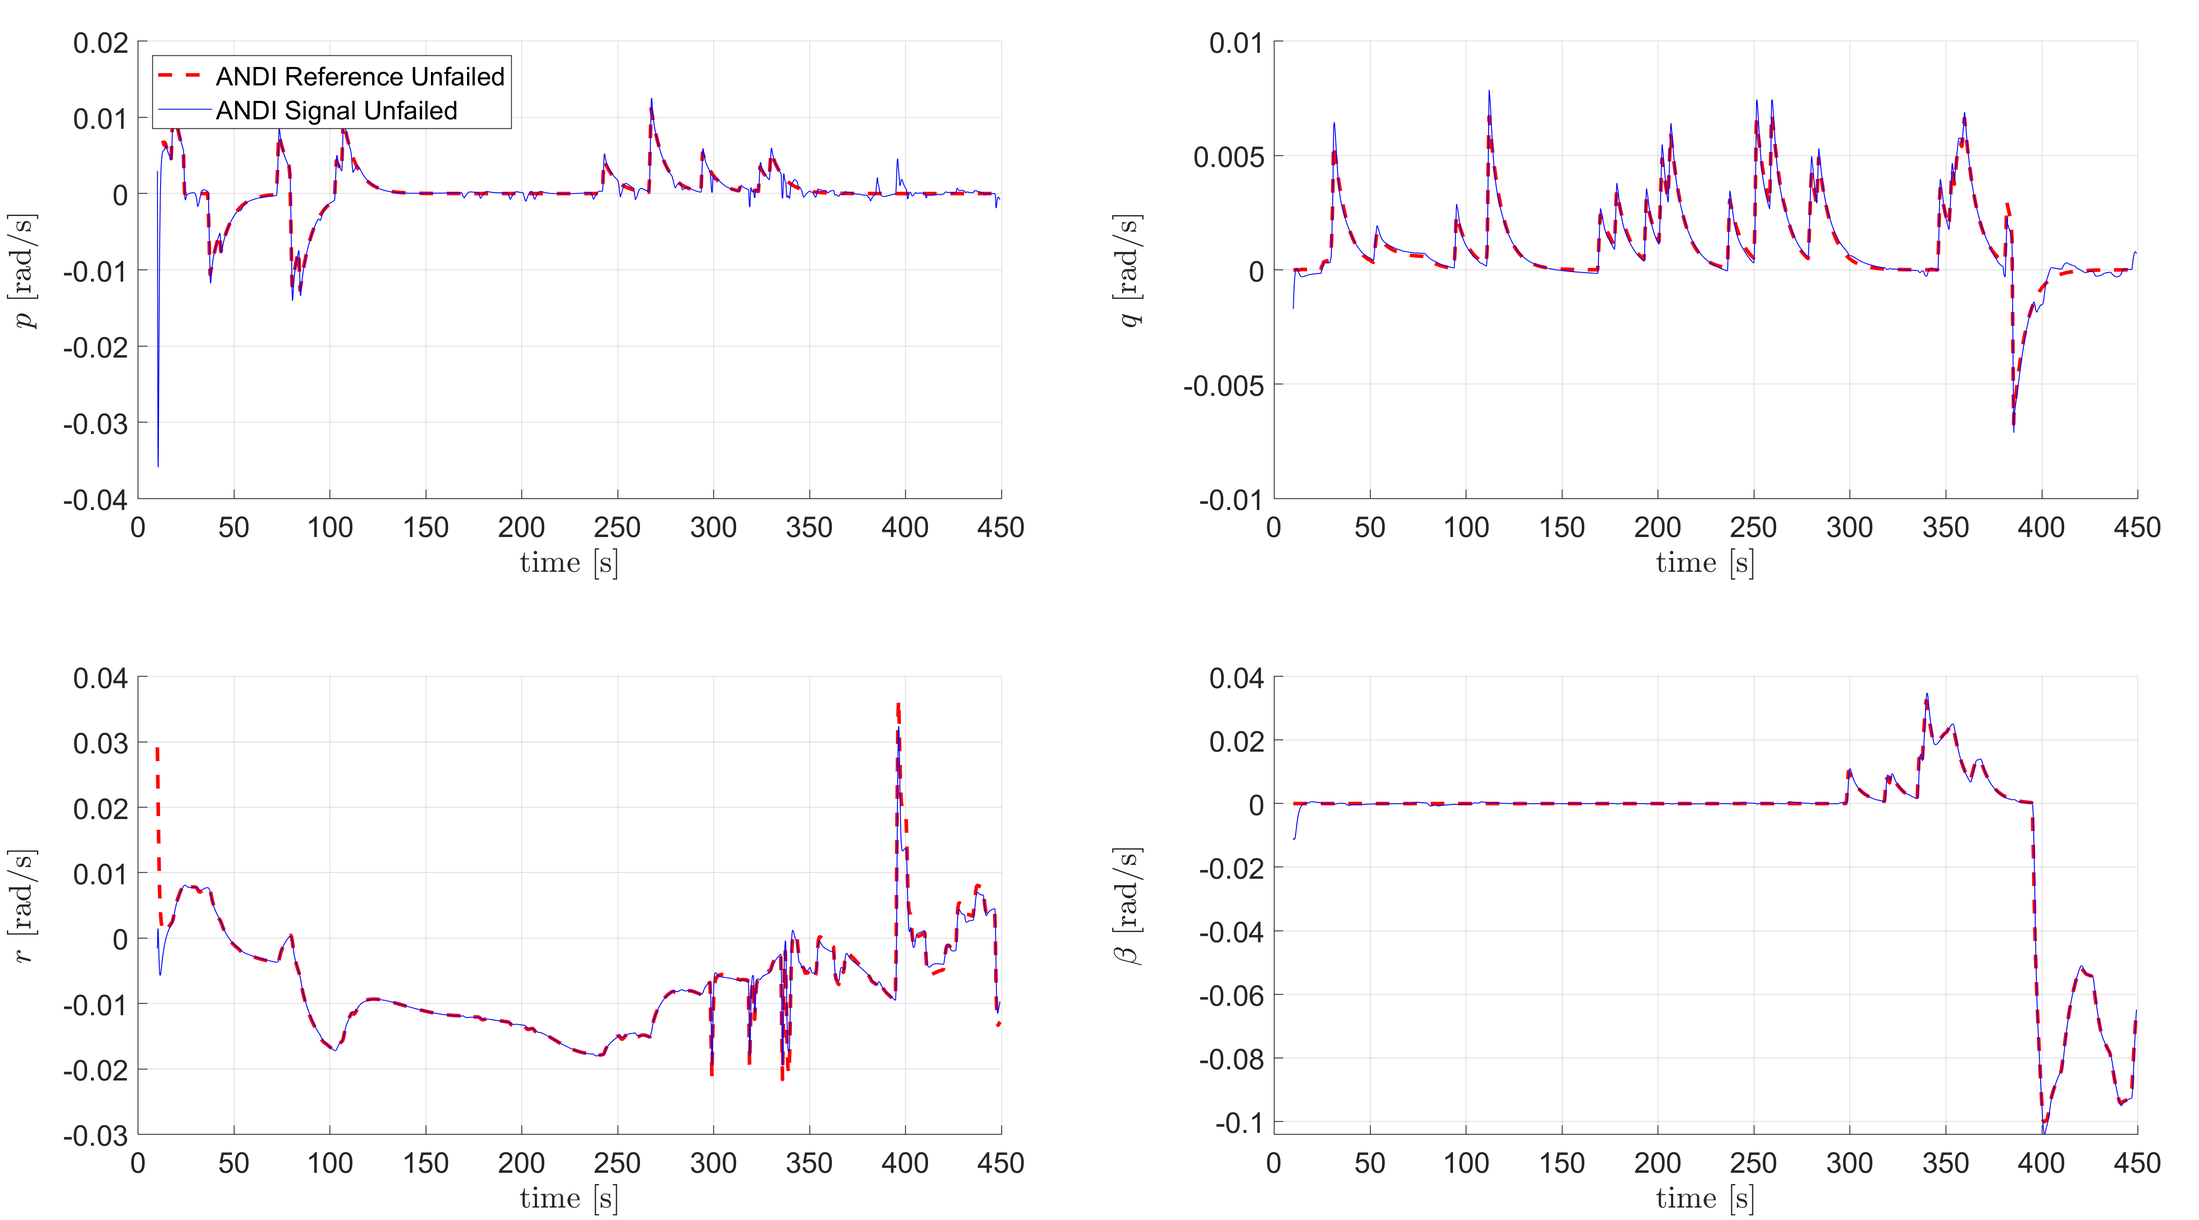
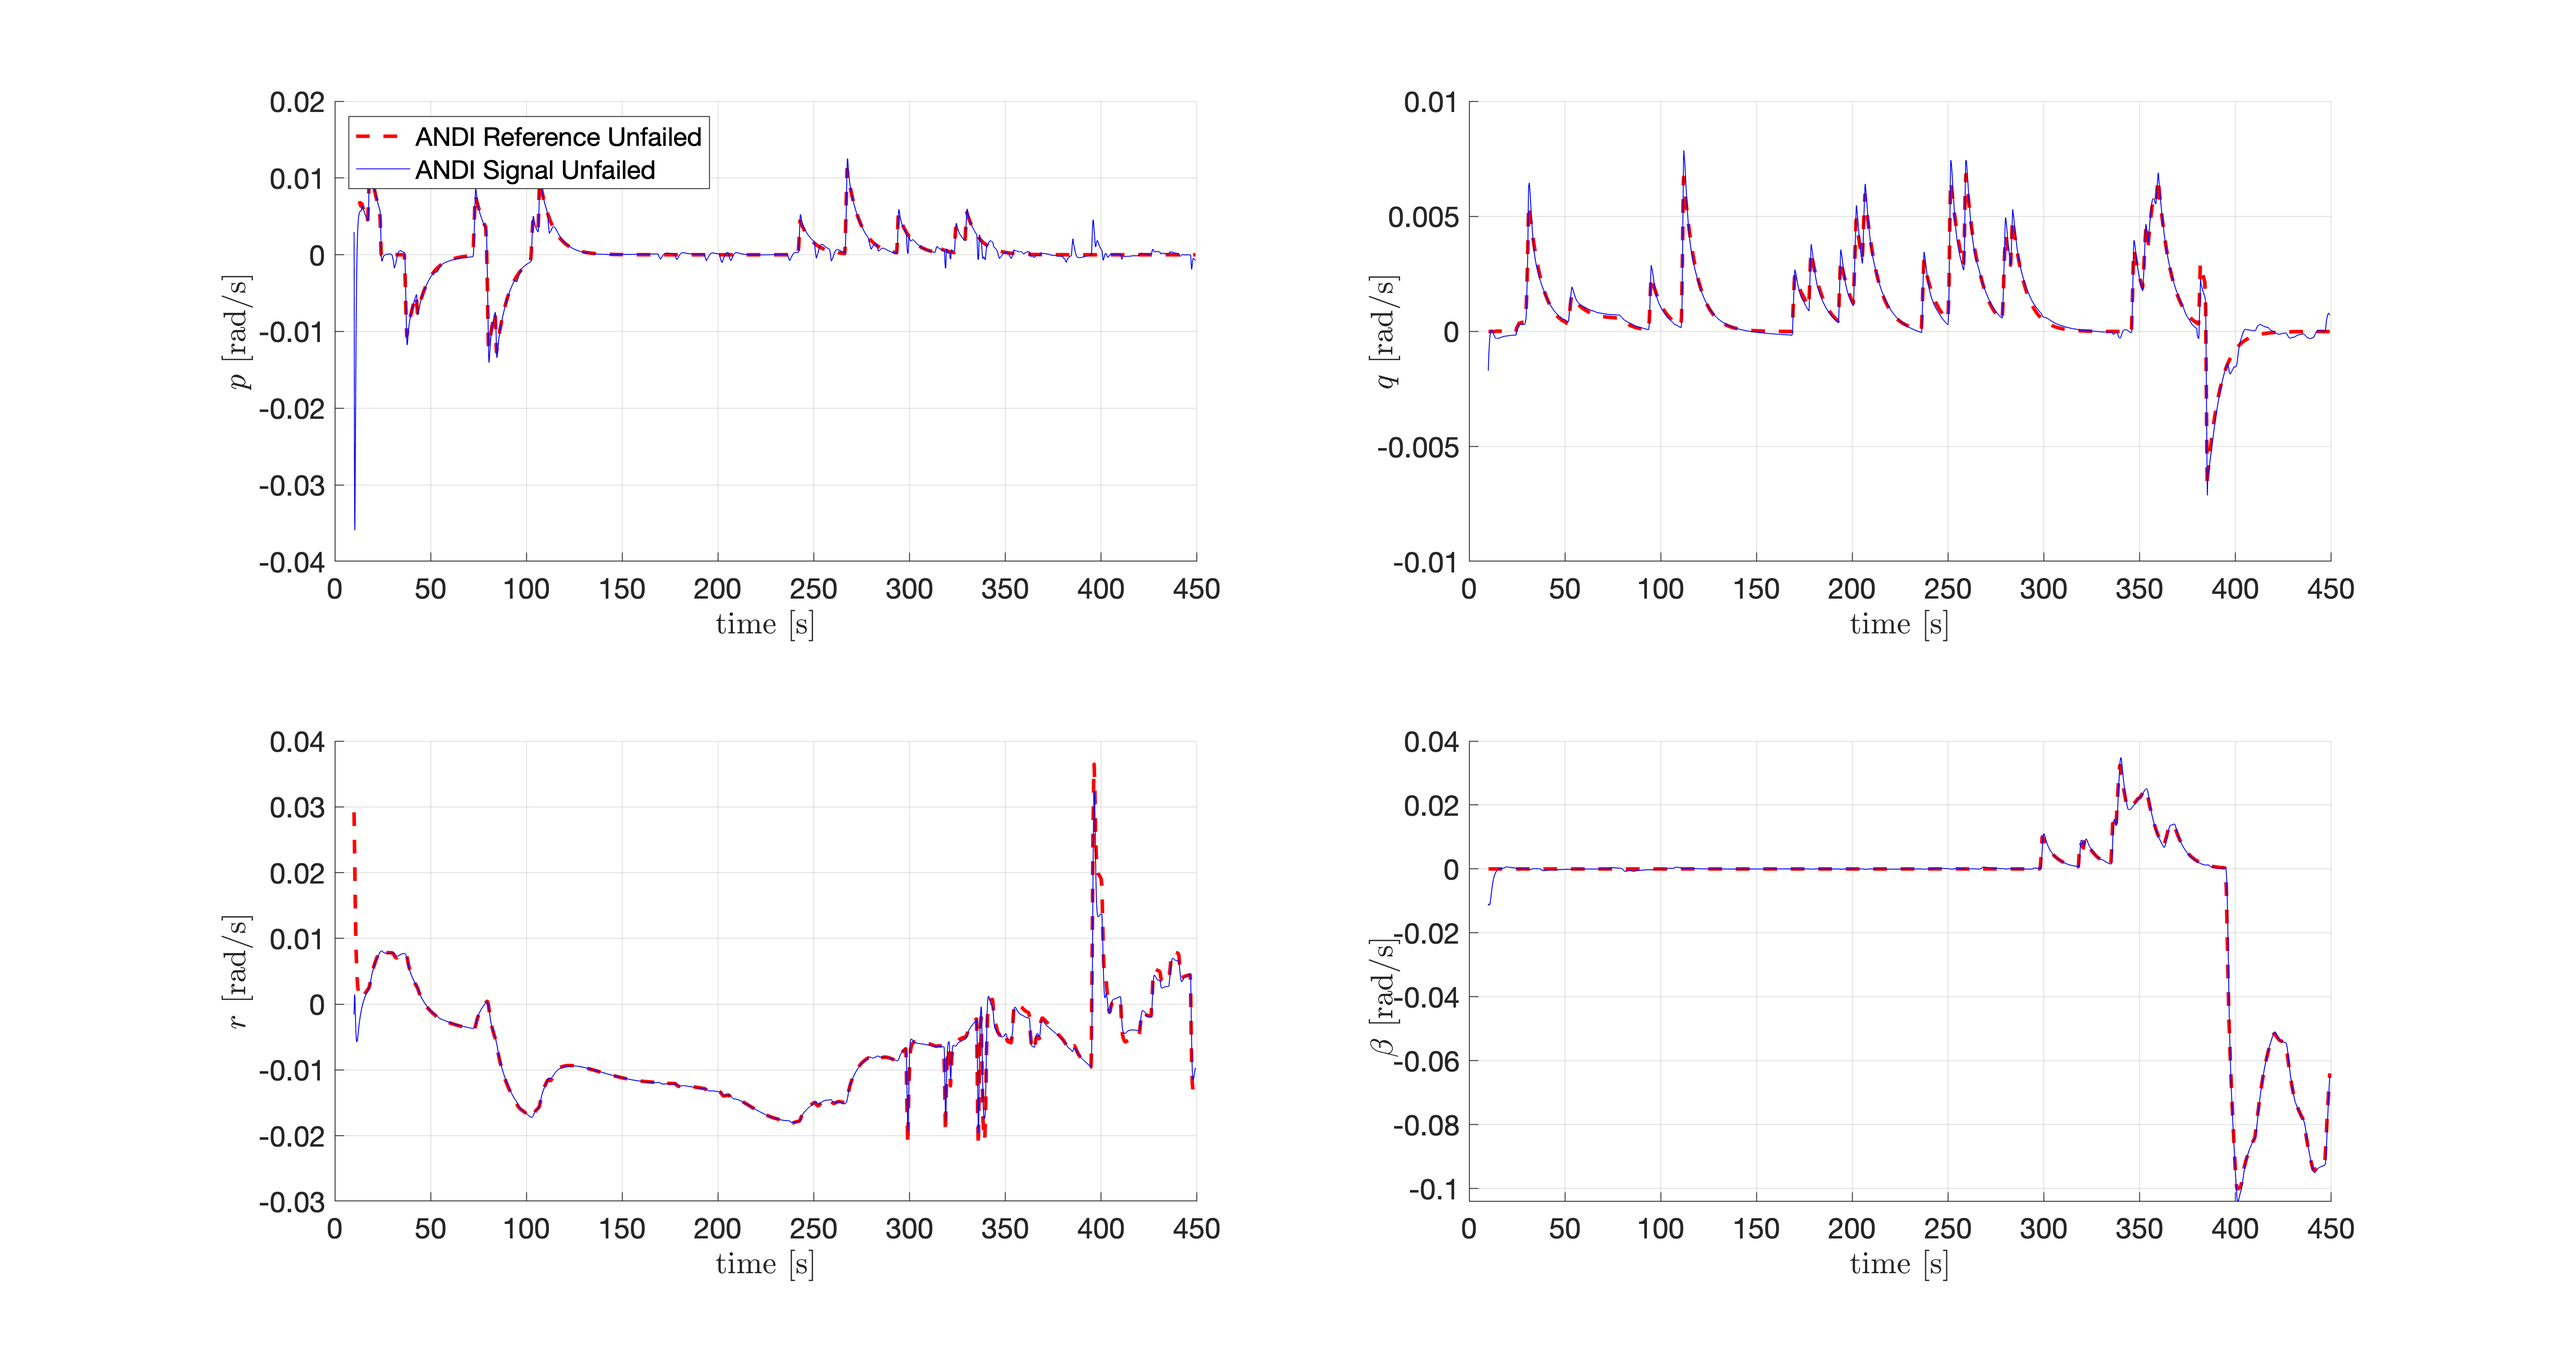
Update

diff --git a/Citation/Part 5/classic_indi.m b/Citation/Part 5/classic_indi.m
@@ -30,7 +30,7 @@ xlabel('time [s]', 'interpreter', 'latex')
 label1 = ylabel('$C_m$ [-]', 'interpreter', 'latex');
 label_ref1 = label1.Position(1) - 30;
 label1.Position(1) = label_ref1;
-legend('Classic Analytical Unfailed', 'Classic Model Unfailed', 'location', 'northwest')
+legend('Classical Analytical Unfailed', 'Classical Model Unfailed', 'location', 'northwest')
 grid on
 
 subplot(422)
@@ -38,7 +38,7 @@ hold on
 plot(y_indi_unf(tb:end,1), y_indi_unf(tb:end,4))
 plot(y_est_indi_unf(tb:end,1), y_est_indi_unf(tb:end,4))
 xlabel('time [s]', 'interpreter', 'latex')
-label2 = ylabel('$C_Y$ [-]', 'interpreter', 'latex');
+label2 = ylabel('$C_m$ [-]', 'interpreter', 'latex');
 label_ref2 = label2.Position(1) - 32;
 label2.Position(1) = label_ref2;
 legend('INDI Analytical Unfailed', 'INDI Model Unfailed', 'location', 'northwest')
@@ -117,7 +117,7 @@ xlabel('time [s]', 'interpreter', 'latex')
 label1 = ylabel('$C_m$ [-]', 'interpreter', 'latex');
 label_ref1 = label1.Position(1) - 28;
 label1.Position(1) = label_ref1;
-legend('Classic Analytical Failed', 'Classic Model Failed', 'location', 'northwest')
+legend('Classical Analytical Failed', 'Classical Model Failed', 'location', 'northwest')
 grid on
 
 subplot(422)
@@ -315,7 +315,7 @@ xlabel('time [s]', 'interpreter', 'latex')
 label1 = ylabel('$C_{Y_{\delta_a}}$ [-]', 'interpreter', 'latex');
 label_ref1 = label1.Position(1) - 15;
 label1.Position(1) = label_ref1;
-legend('Classic Unfailed', 'Classic Failed', 'location', 'northwest')
+legend('Classical Unfailed', 'Classical Failed', 'location', 'northwest')
 grid on
 
 subplot(322)
@@ -385,7 +385,7 @@ xlabel('time [s]', 'interpreter', 'latex')
 label1 = ylabel('$p$ [rad/s]','interpreter', 'latex');
 label_ref1 = label1.Position(1) - 10;
 label1.Position(1) = label_ref1;
-legend('Classic Reference Unfailed', 'Classic Signal Unfailed', 'location', 'northwest')
+legend('Classical Reference Unfailed', 'Classical Signal Unfailed', 'location', 'northwest')
 grid on;
 
 subplot(222)
@@ -485,7 +485,7 @@ xlabel('time [s]', 'interpreter', 'latex')
 label1 = ylabel('$p$ [rad/s]','interpreter', 'latex');
 label_ref1 = label1.Position(1) - 20;
 label1.Position(1) = label_ref1;
-legend('Classic Reference Failed', 'Classic Signal Failed', 'location', 'northwest')
+legend('Classical Reference Failed', 'Classical Signal Failed', 'location', 'northwest')
 grid on;
 
 subplot(222)
@@ -494,7 +494,7 @@ plot(tout_classic_fail, classic_pqr_fail.signals(1).values(:,2), 'r--', 'LineWid
 plot(tout_classic_fail, classic_pqr_fail.signals(2).values(:,2), 'b-')
 xlabel('time [s]', 'interpreter', 'latex')
 label2 = ylabel('$q$ [rad/s]','interpreter', 'latex');
-label_ref2 = label2.Position(1) - 15;
+label_ref2 = label2.Position(1) - 25;
 label2.Position(1) = label_ref2;
 grid on;
 

diff --git a/Citation/Part 5/classic_andi.m b/Citation/Part 5/classic_andi.m
@@ -30,7 +30,7 @@ xlabel('time [s]', 'interpreter', 'latex')
 label1 = ylabel('$C_m$ [-]', 'interpreter', 'latex');
 label_ref1 = label1.Position(1) - 20;
 label1.Position(1) = label_ref1;
-legend('Classic Analytical Unfailed', 'Classic Model Unfailed', 'location', 'northwest')
+legend('Classical Analytical Unfailed', 'Classical Model Unfailed', 'location', 'northwest')
 grid on
 
 subplot(422)
@@ -117,7 +117,7 @@ xlabel('time [s]', 'interpreter', 'latex')
 label1 = ylabel('$C_m$ [-]', 'interpreter', 'latex');
 label_ref1 = label1.Position(1) - 30;
 label1.Position(1) = label_ref1;
-legend('Classic Analytical Failed', 'Classic Model Failed', 'location', 'northwest')
+legend('Classical Analytical Failed', 'Classical Model Failed', 'location', 'northwest')
 grid on
 
 subplot(422)
@@ -315,7 +315,7 @@ xlabel('time [s]', 'interpreter', 'latex')
 label1 = ylabel('$C_{Y_{\delta_a}}$ [-]', 'interpreter', 'latex');
 label_ref1 = label1.Position(1) - 20;
 label1.Position(1) = label_ref1;
-legend('Classic Unfailed', 'Classic Failed', 'location', 'northwest')
+legend('Classical Unfailed', 'Classical Failed', 'location', 'northwest')
 grid on
 
 subplot(322)
@@ -385,7 +385,7 @@ xlabel('time [s]', 'interpreter', 'latex')
 label1 = ylabel('$p$ [rad/s]','interpreter', 'latex');
 label_ref1 = label1.Position(1) - 10;
 label1.Position(1) = label_ref1;
-legend('Classic Reference Unfailed', 'Classic Signal Unfailed', 'location', 'northwest')
+legend('Classical Reference Unfailed', 'Classical Signal Unfailed', 'location', 'northwest')
 grid on;
 
 subplot(222)
@@ -485,7 +485,7 @@ xlabel('time [s]', 'interpreter', 'latex')
 label1 = ylabel('$p$ [rad/s]','interpreter', 'latex');
 label_ref1 = label1.Position(1) - 20;
 label1.Position(1) = label_ref1;
-legend('Classic Reference Failed', 'Classic Signal Failed', 'location', 'northwest')
+legend('Classical Reference Failed', 'Classical Signal Failed', 'location', 'northwest')
 grid on;
 
 subplot(222)
@@ -494,7 +494,7 @@ plot(tout_classic_fail, classic_pqr_fail.signals(1).values(:,2), 'r--', 'LineWid
 plot(tout_classic_fail, classic_pqr_fail.signals(2).values(:,2), 'b-')
 xlabel('time [s]', 'interpreter', 'latex')
 label2 = ylabel('$q$ [rad/s]','interpreter', 'latex');
-label_ref2 = label2.Position(1) - 15;
+label_ref2 = label2.Position(1) - 25;
 label2.Position(1) = label_ref2;
 grid on;
 

diff --git a/Citation/Part 4/NDI_tuning_plots.m b/Citation/Part 4/NDI_tuning_plots.m
@@ -12,7 +12,7 @@ clear;
 load('Data/INDI_tuning_response.mat');
 load('Data/ANDI_tuning_response.mat');
 
-save = 1;
+save = 0;
 
 %% Present Results PI Tuning INDI and ANDI
 %% ------------------------------------------------------------------------

diff --git a/Citation/Part 3/controller_tuning_plots.m b/Citation/Part 3/controller_tuning_plots.m
@@ -10,7 +10,7 @@ clc;
 clear;
 
 load('Data/classic_tuning_response.mat');
-save = 1;
+save = 0;
 
 %% Present Result PI Tuning Classical Controller
 %% -------------------------------------------------------------------------
